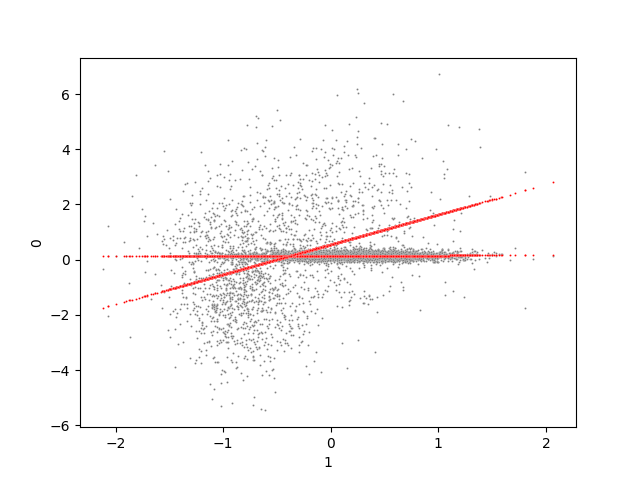
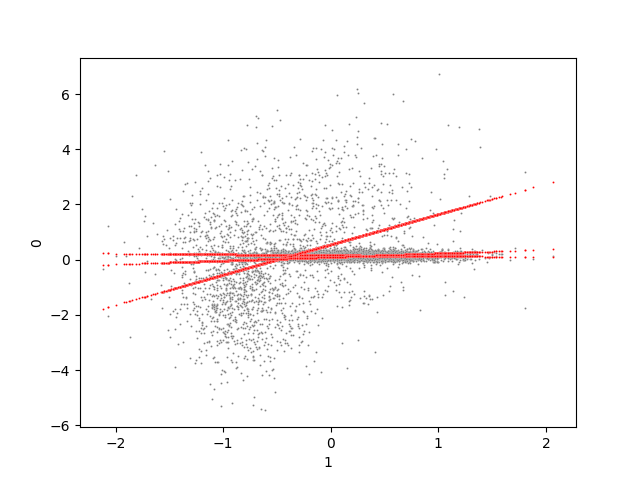
fixed string

diff --git a/week4/main.py b/week4/main.py
@@ -22,7 +22,7 @@ if __name__ == "__main__":
     print("Running")
 
     # define data. 
-    G = 2 
+    G = 3 
     #data_s = torch.rand(100,3)
     data_df = load_french_motor()
     data_s = data_df[['y_log','dens']].to_numpy()
@@ -37,7 +37,7 @@ if __name__ == "__main__":
     test_obj = flm.objective_fn(flm.X,flm.y)
 
     # run a training 
-    flm.train(lr=1e-2, max_iterations=1000)
+    flm.train(lr=1e-3, max_iterations=1000)
     
     flm.plot(1) 
 

diff --git a/week4/flm_model.py b/week4/flm_model.py
@@ -106,7 +106,7 @@ class FiniteLinearModel(nn.Module):
                                       self.sigmas], lr=lr)
         # track loss 
         loss = np.zeros(max_iterations)
-        tq_obj = tqdm(range(max_iterations), desc="SU Model Training")
+        tq_obj = tqdm(range(max_iterations), desc="Model Training")
        
         for it in tq_obj:
             optimizer.zero_grad() 
